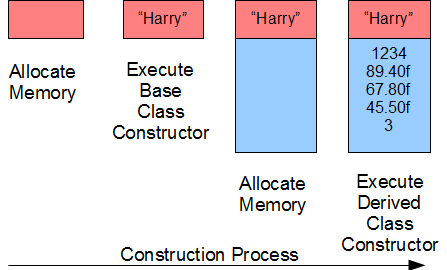
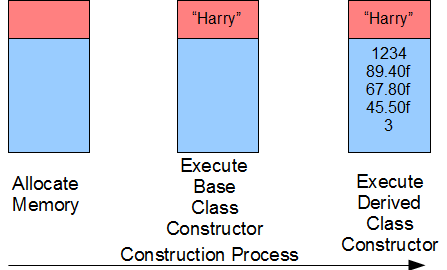
revised construction stages

diff --git a/docs/D-Inheritance/functions-in-a-hierarchy.md b/docs/D-Inheritance/functions-in-a-hierarchy.md
@@ -301,16 +301,22 @@ Jane Doe
 
 A derived class does not inherit a base class constructor by default. That is, if we do not declare a constructor in our definition of the derived class, the compiler inserts an empty no-argument constructor by default.
 
-The compiler constructs an instance of the derived class in four steps in two distinct stages:
+The compiler constructs an instance of the derived class in three steps:
 
-1. Construct the base class portion of the complete object
-   1. Allocate memory for the instance variables in the order of their declaration
-   2. Execute the base class constructor
-2. Construct the derived class portion of the object
-   1. Allocate memory for the instance variables in the order of their declaration
-   2. Execute the derived class constructor
+1. Memory Allocation:
+   - The memory for the entire object (both base and derived parts) is allocated as a single contiguous block. This means that the memory for the base class and any additional members introduced by the derived class are allocated together. The size of the allocated memory depends on the combined size of the base class and the derived class.
+2. Base Class Initialization:
+   - The base class constructor initializes the base class members.
+3. Derived Class Initialization:
+   - After the base class is initialized, the derived class constructor is invoked.
+   - The derived class constructor initializes the derived class members.
 
 ![Inheritance Constructors](../../static/img/inherit_ctor.png)
+
+- Initialization Order:
+  - The base class constructor is called first to initialize the base class part of the object.
+  - Then, the derived class constructor is called to initialize the derived class part.
+  - The order of constructor calls is always from base to derived.
 
 In our example, let us define a no-argument constructor for the base class. The header file declares the no-argument constructor:
 
